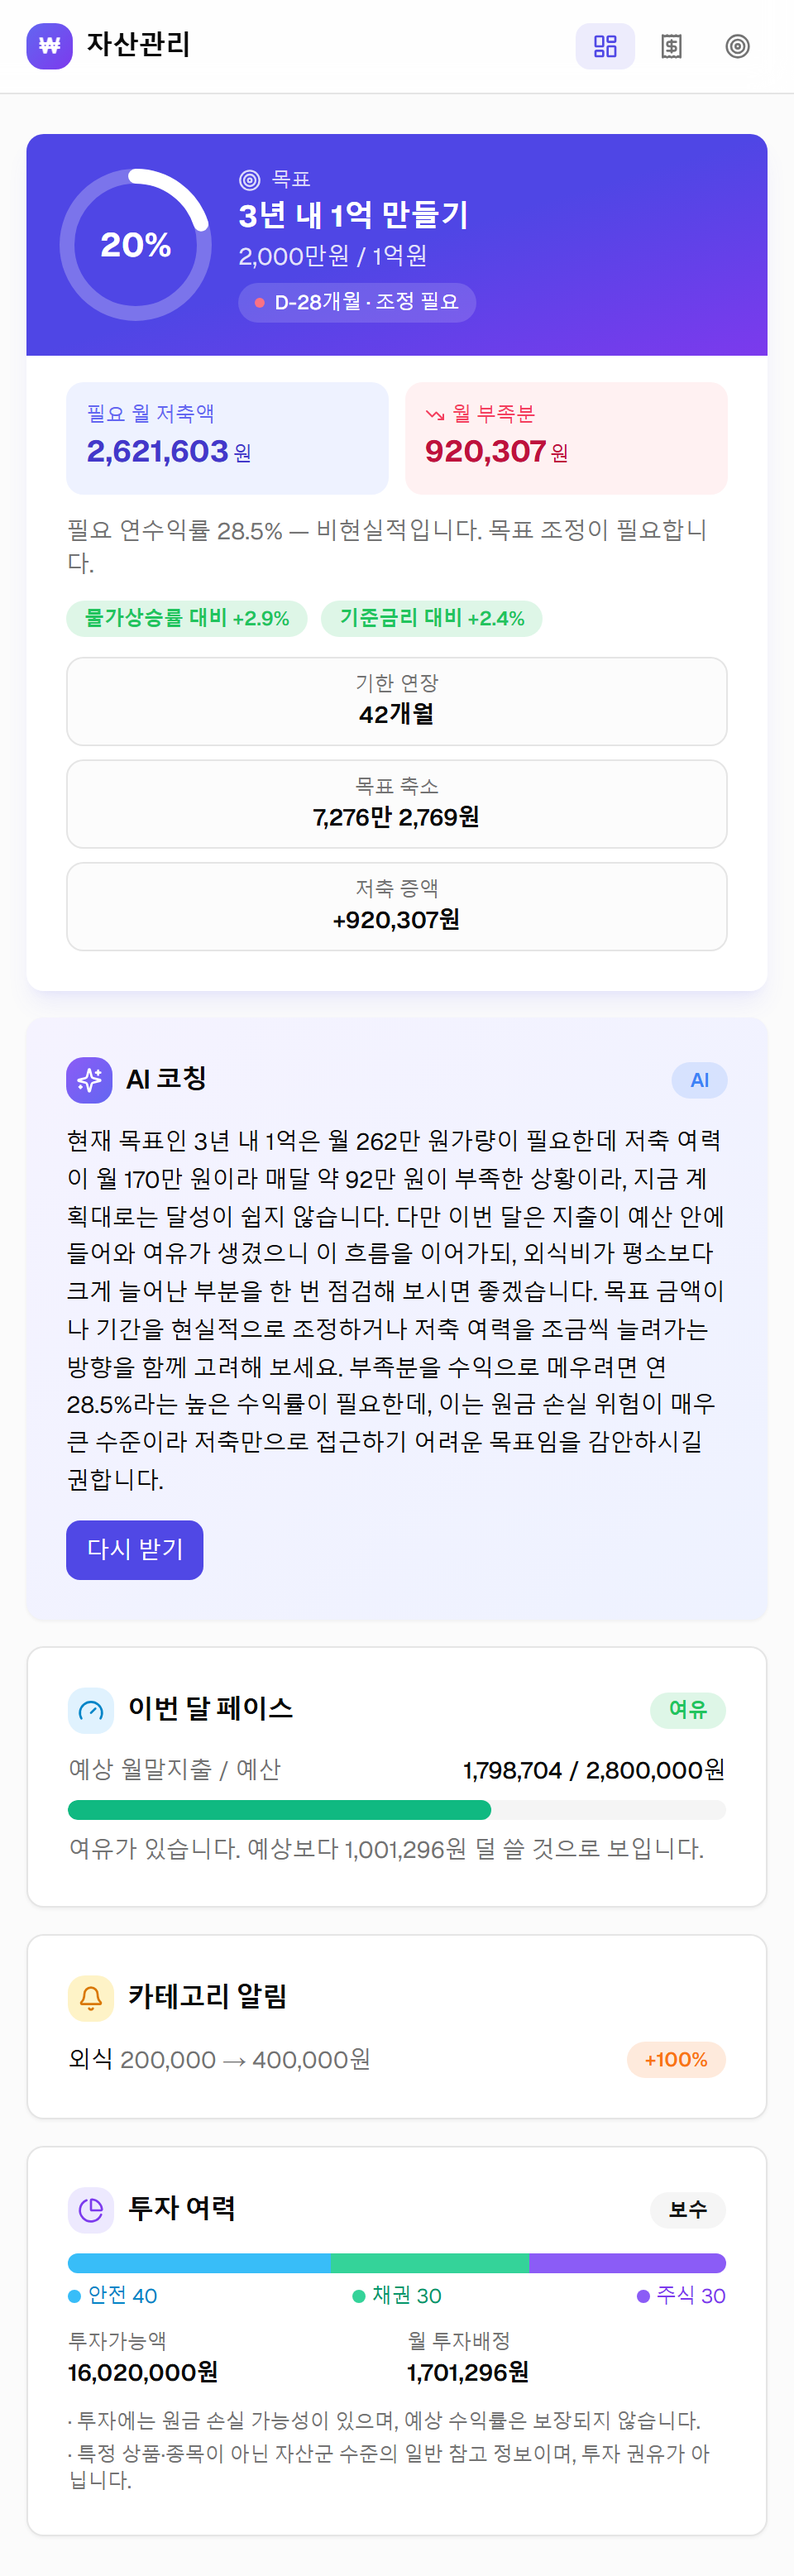
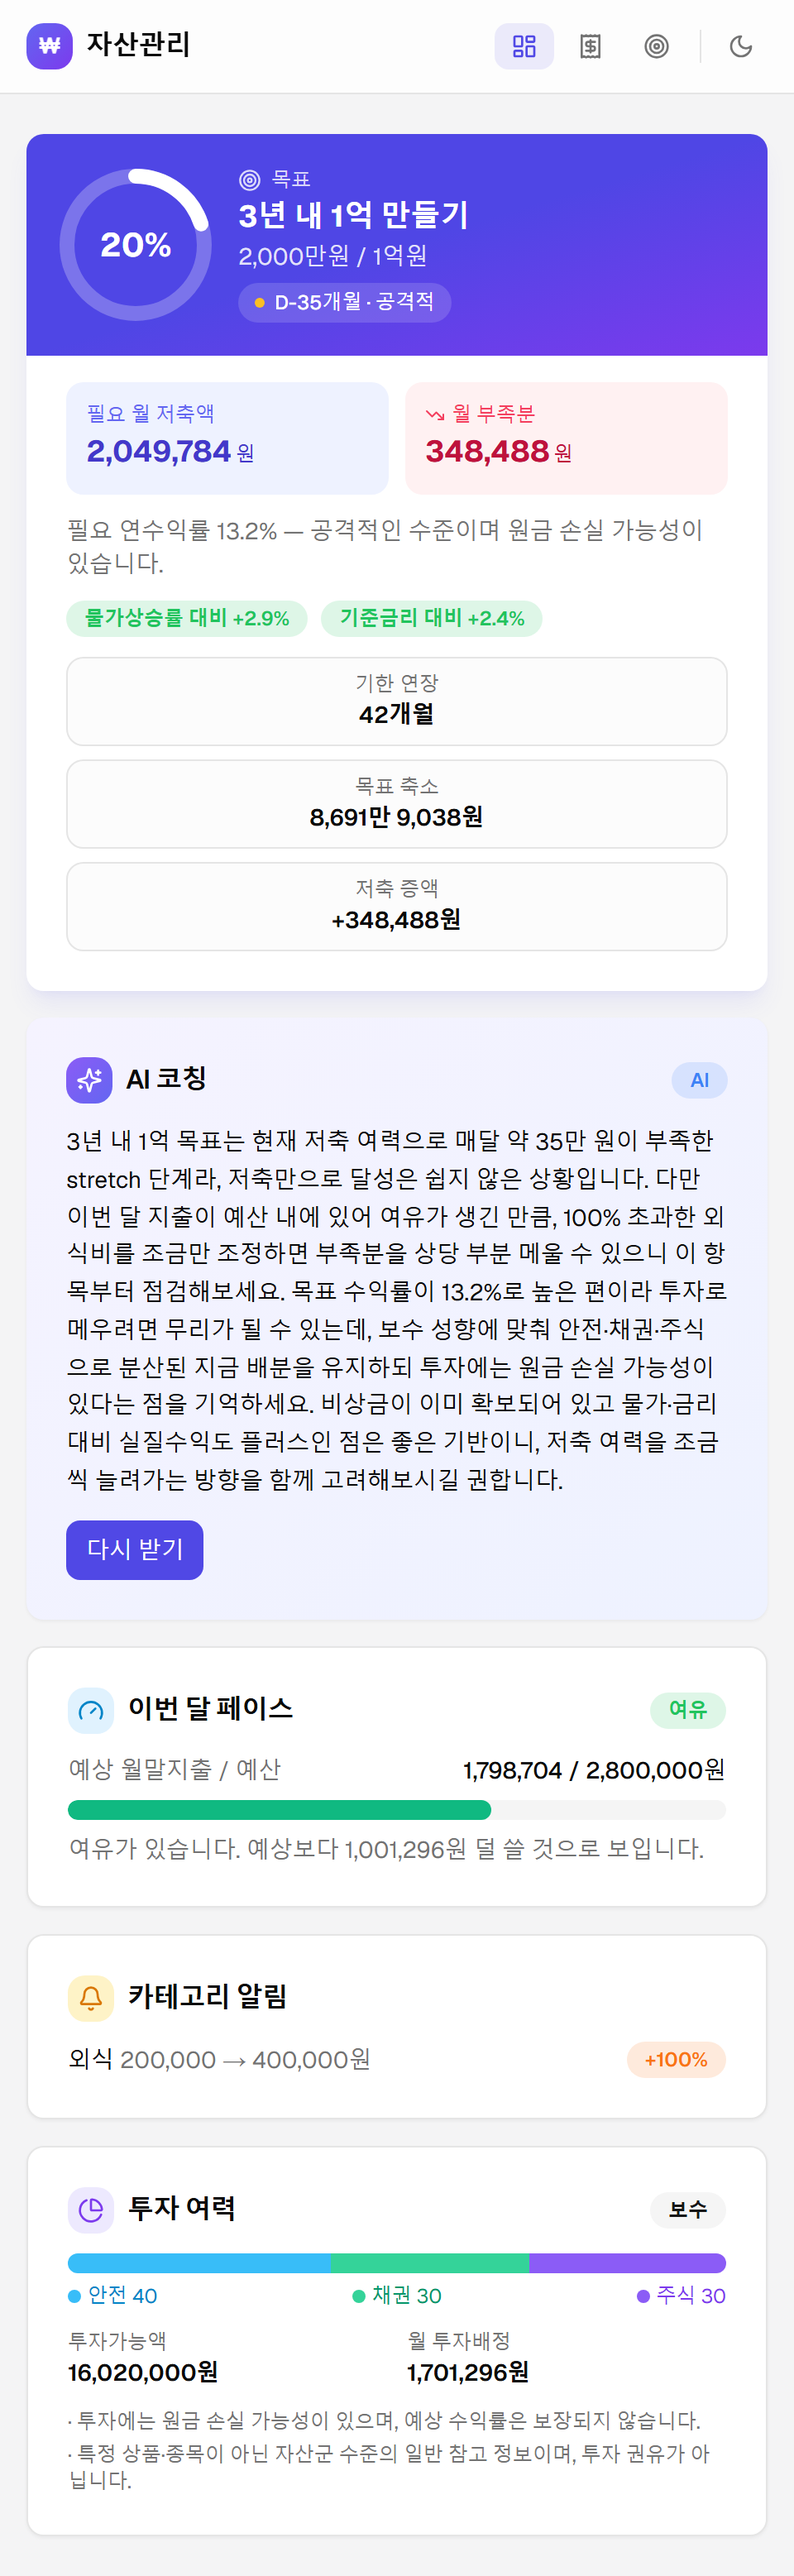
feat(ui): 다크 모드 추가
- 다크 테마 토큰(배경/카드/보더/프라이머리) 정의
- 내비바 테마 토글(해/달) + 시스템 설정 자동 감지
- FOUC 방지: 하이드레이션 전 인라인 스크립트로 테마 선반영
- 대시보드 컬러 칩·아이콘에 dark: 변형 추가
- README에 다크 모드 스크린샷 추가

diff --git a/src/app/dashboard/page.tsx b/src/app/dashboard/page.tsx
@@ -71,9 +71,11 @@ export default async function DashboardPage() {
 
         <CardContent className="space-y-3 pt-4">
           <div className="grid grid-cols-2 gap-2.5">
-            <div className="rounded-lg bg-indigo-50 p-3">
-              <div className="text-xs text-indigo-500">필요 월 저축액</div>
-              <div className="text-lg font-bold text-indigo-700">
+            <div className="rounded-lg bg-indigo-50 p-3 dark:bg-indigo-500/10">
+              <div className="text-xs text-indigo-500 dark:text-indigo-400">
+                필요 월 저축액
+              </div>
+              <div className="text-lg font-bold text-indigo-700 dark:text-indigo-300">
                 {formatWon(diagnosis.requiredMonthlySaving)}
                 <span className="ml-0.5 text-xs font-normal">원</span>
               </div>
@@ -81,15 +83,17 @@ export default async function DashboardPage() {
             <div
               className={cn(
                 "rounded-lg p-3",
-                diagnosis.monthlyShortfall > 0 ? "bg-rose-50" : "bg-emerald-50",
+                diagnosis.monthlyShortfall > 0
+                  ? "bg-rose-50 dark:bg-rose-500/10"
+                  : "bg-emerald-50 dark:bg-emerald-500/10",
               )}
             >
               <div
                 className={cn(
                   "flex items-center gap-1 text-xs",
                   diagnosis.monthlyShortfall > 0
-                    ? "text-rose-500"
-                    : "text-emerald-600",
+                    ? "text-rose-500 dark:text-rose-400"
+                    : "text-emerald-600 dark:text-emerald-400",
                 )}
               >
                 {diagnosis.monthlyShortfall > 0 ? (
@@ -106,8 +110,8 @@ export default async function DashboardPage() {
                 className={cn(
                   "text-lg font-bold",
                   diagnosis.monthlyShortfall > 0
-                    ? "text-rose-700"
-                    : "text-emerald-700",
+                    ? "text-rose-700 dark:text-rose-300"
+                    : "text-emerald-700 dark:text-emerald-300",
                 )}
               >
                 {formatWon(Math.abs(diagnosis.monthlyShortfall))}
@@ -168,7 +172,7 @@ export default async function DashboardPage() {
               <CardHeader className="pb-3">
                 <TitleRow
                   icon={Gauge}
-                  chip="bg-sky-100 text-sky-600"
+                  chip="bg-sky-100 text-sky-600 dark:bg-sky-500/15 dark:text-sky-300"
                   right={
                     <Badge variant={PACE_META[pace.signal].variant}>
                       {PACE_META[pace.signal].label}
@@ -203,7 +207,10 @@ export default async function DashboardPage() {
           {/* 카테고리 알림 */}
           <Card>
             <CardHeader className="pb-3">
-              <TitleRow icon={Bell} chip="bg-amber-100 text-amber-600">
+              <TitleRow
+                icon={Bell}
+                chip="bg-amber-100 text-amber-600 dark:bg-amber-500/15 dark:text-amber-300"
+              >
                 카테고리 알림
               </TitleRow>
             </CardHeader>
@@ -244,7 +251,7 @@ export default async function DashboardPage() {
               <CardHeader className="pb-3">
                 <TitleRow
                   icon={PieChart}
-                  chip="bg-violet-100 text-violet-600"
+                  chip="bg-violet-100 text-violet-600 dark:bg-violet-500/15 dark:text-violet-300"
                   right={<Badge variant="secondary">{investment.profile.label}</Badge>}
                 >
                   투자 여력
@@ -350,14 +357,14 @@ function AllocationBar({
         <div className="bg-violet-500" style={{ width: `${allocation.stocks}%` }} />
       </div>
       <div className="mt-1.5 flex justify-between text-xs">
-        <span className="flex items-center gap-1 text-sky-600">
+        <span className="flex items-center gap-1 text-sky-600 dark:text-sky-400">
           <span className="h-2 w-2 rounded-full bg-sky-400" /> 안전 {allocation.safe}
         </span>
-        <span className="flex items-center gap-1 text-emerald-600">
+        <span className="flex items-center gap-1 text-emerald-600 dark:text-emerald-400">
           <span className="h-2 w-2 rounded-full bg-emerald-400" /> 채권{" "}
           {allocation.bonds}
         </span>
-        <span className="flex items-center gap-1 text-violet-600">
+        <span className="flex items-center gap-1 text-violet-600 dark:text-violet-400">
           <span className="h-2 w-2 rounded-full bg-violet-500" /> 주식{" "}
           {allocation.stocks}
         </span>

diff --git a/src/app/globals.css b/src/app/globals.css
@@ -5,6 +5,7 @@
 @layer base {
   :root {
     --background: 0 0% 100%;
+    --page: 240 5% 96%;
     --foreground: 0 0% 3.9%;
     --card: 0 0% 100%;
     --card-foreground: 0 0% 3.9%;
@@ -33,25 +34,26 @@
   }
 
   .dark {
-    --background: 0 0% 3.9%;
+    --background: 240 6% 12%;
+    --page: 240 6% 9%;
     --foreground: 0 0% 98%;
-    --card: 0 0% 3.9%;
+    --card: 240 6% 15%;
     --card-foreground: 0 0% 98%;
-    --popover: 0 0% 3.9%;
+    --popover: 240 6% 15%;
     --popover-foreground: 0 0% 98%;
-    --primary: 0 0% 98%;
-    --primary-foreground: 0 0% 9%;
-    --secondary: 0 0% 14.9%;
+    --primary: 243 75% 68%;
+    --primary-foreground: 0 0% 100%;
+    --secondary: 240 5% 20%;
     --secondary-foreground: 0 0% 98%;
-    --muted: 0 0% 14.9%;
-    --muted-foreground: 0 0% 63.9%;
-    --accent: 0 0% 14.9%;
+    --muted: 240 5% 20%;
+    --muted-foreground: 240 5% 65%;
+    --accent: 240 5% 20%;
     --accent-foreground: 0 0% 98%;
-    --destructive: 0 62.8% 30.6%;
+    --destructive: 0 62.8% 40%;
     --destructive-foreground: 0 0% 98%;
-    --border: 0 0% 14.9%;
-    --input: 0 0% 14.9%;
-    --ring: 0 0% 83.1%;
+    --border: 240 5% 24%;
+    --input: 240 5% 26%;
+    --ring: 243 75% 68%;
   }
 }
 
@@ -60,6 +62,7 @@
     @apply border-border;
   }
   body {
-    @apply bg-muted/40 text-foreground antialiased;
+    background-color: hsl(var(--page));
+    @apply text-foreground antialiased;
   }
 }

diff --git a/src/components/theme-toggle.tsx b/src/components/theme-toggle.tsx
@@ -1,0 +1,37 @@
+"use client";
+
+import { useEffect, useState } from "react";
+import { Moon, Sun } from "lucide-react";
+import { cn } from "@/lib/utils";
+
+export function ThemeToggle() {
+  const [dark, setDark] = useState(false);
+
+  // 초기 상태는 <head>의 인라인 스크립트가 이미 class로 반영해 둠 → 읽기만
+  useEffect(() => {
+    setDark(document.documentElement.classList.contains("dark"));
+  }, []);
+
+  function toggle() {
+    const next = !document.documentElement.classList.contains("dark");
+    document.documentElement.classList.toggle("dark", next);
+    try {
+      localStorage.setItem("theme", next ? "dark" : "light");
+    } catch {}
+    setDark(next);
+  }
+
+  return (
+    <button
+      type="button"
+      onClick={toggle}
+      aria-label={dark ? "라이트 모드로" : "다크 모드로"}
+      className={cn(
+        "grid h-8 w-8 place-items-center rounded-md text-muted-foreground",
+        "transition-colors hover:bg-muted hover:text-foreground",
+      )}
+    >
+      {dark ? <Sun className="h-4 w-4" /> : <Moon className="h-4 w-4" />}
+    </button>
+  );
+}

diff --git a/src/app/layout.tsx b/src/app/layout.tsx
@@ -11,13 +11,23 @@ export const metadata: Metadata = {
   description: "목표 저축액 계산과 월중 지출 페이스 판정",
 };
 
+// 하이드레이션 전에 테마를 적용해 다크/라이트 깜빡임(FOUC)을 막는다.
+const themeScript = `try{var t=localStorage.getItem('theme');if(t==='dark'||(!t&&window.matchMedia('(prefers-color-scheme:dark)').matches)){document.documentElement.classList.add('dark')}}catch(e){}`;
+
 export default function RootLayout({
   children,
 }: {
   children: React.ReactNode;
 }) {
   return (
-    <html lang="ko" className={cn("font-sans", geist.variable)}>
+    <html
+      lang="ko"
+      className={cn("font-sans", geist.variable)}
+      suppressHydrationWarning
+    >
+      <head>
+        <script dangerouslySetInnerHTML={{ __html: themeScript }} />
+      </head>
       <body>
         <AppNav />
         {children}

diff --git a/src/components/app-nav.tsx b/src/components/app-nav.tsx
@@ -4,6 +4,7 @@ import Link from "next/link";
 import { usePathname } from "next/navigation";
 import { LayoutDashboard, Receipt, Target } from "lucide-react";
 import { cn } from "@/lib/utils";
+import { ThemeToggle } from "@/components/theme-toggle";
 
 const LINKS = [
   { href: "/dashboard", label: "대시보드", icon: LayoutDashboard },
@@ -42,6 +43,8 @@ export function AppNav() {
               </Link>
             );
           })}
+          <div className="mx-1 h-5 w-px bg-border" />
+          <ThemeToggle />
         </nav>
       </div>
     </header>

diff --git a/src/app/dashboard/ai-coach.tsx b/src/app/dashboard/ai-coach.tsx
@@ -21,7 +21,7 @@ export function AiCoachCard() {
   }
 
   return (
-    <Card className="overflow-hidden border-0 bg-gradient-to-br from-violet-50 to-indigo-50 shadow-sm">
+    <Card className="overflow-hidden border-0 bg-gradient-to-br from-violet-50 to-indigo-50 shadow-sm dark:from-violet-500/10 dark:to-indigo-500/10">
       <CardHeader className="pb-3">
         <div className="flex items-center justify-between">
           <div className="flex items-center gap-2">

diff --git a/README.md b/README.md
@@ -33,6 +33,10 @@
 | **지출 입력 — 빠른 입력 + 고정 토글** | **CSV 가져오기 — 매핑·자동 분류·중복 감지** |
 | <img src="docs/screenshots/transactions.png" width="300" alt="지출 입력"> | <img src="docs/screenshots/import.png" width="300" alt="CSV 임포트"> |
 
+🌙 **다크 모드 지원** — 우측 상단 토글로 전환 (시스템 설정 자동 감지)
+
+<img src="docs/screenshots/dashboard-dark.png" width="300" alt="다크 모드 대시보드">
+
 ---
 
 ## 기술 스택
